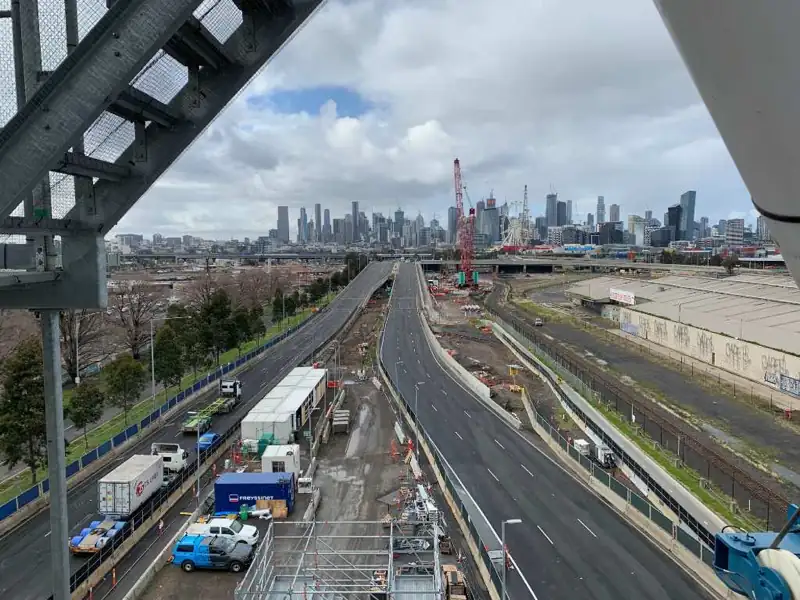
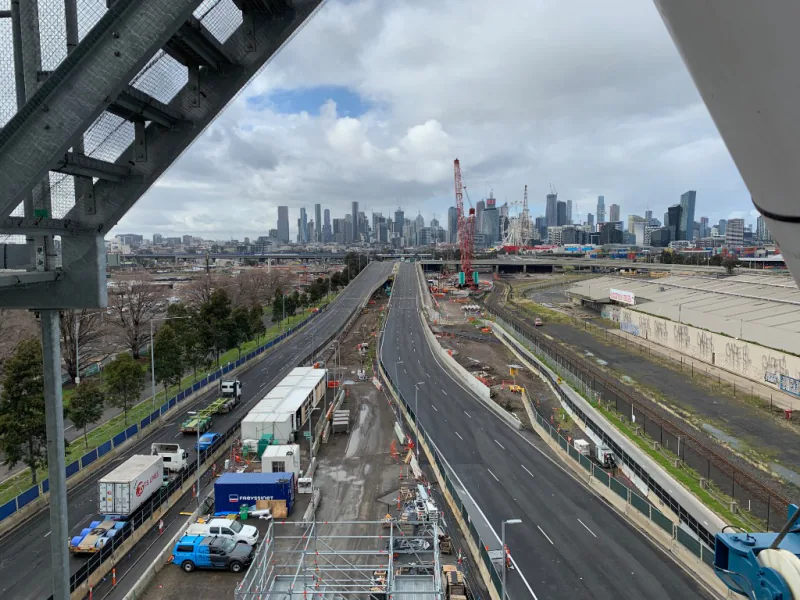
Guides block, auditor register link, two-auditor wording, shorter form and sharper hero
- Homepage Guides section with the three guides as dated cards
- About band and road safety audits page: two accredited auditors on the
  Victorian Road Safety Auditors Register, incl. a Senior, linked to the
  Austroads register
- Homepage enquiry form cut to five fields
- Hero WebPs re-encoded from the uncompressed original
- styles.css v25

diff --git a/index.html b/index.html
@@ -165,7 +165,7 @@
 </script>
     <link rel="preload" as="image" href="fresh-hero-800.webp" type="image/webp" fetchpriority="high" media="(max-width: 800px)">
     <link rel="preload" as="image" href="fresh-hero.webp" type="image/webp" fetchpriority="high" media="(min-width: 801px)">
-    <link rel="stylesheet" href="styles.css?v=24">
+    <link rel="stylesheet" href="styles.css?v=25">
     <link rel="preload" href="/fonts/jost-latin.woff2" as="font" type="font/woff2" crossorigin>
     <link rel="icon" href="favicon.ico" sizes="any">
     <link rel="icon" type="image/png" href="favicon.png">
@@ -208,7 +208,7 @@
             <h1>Road safety audits &amp;<br> traffic engineering <span class="hero-location">Melbourne &amp; Victoria</span></h1>
             <p class="hero-subtitle">For councils, DTP, developers and contractors.</p>
             <ul class="hero-proof" aria-label="Credentials">
-                <li>Senior Road Safety Auditor</li>
+                <li>2 accredited auditors, incl. a Senior Road Safety Auditor</li>
                 <li>TMD Cat 1&ndash;3</li>
                 <li>15+ years in Victoria</li>
             </ul>
@@ -300,6 +300,21 @@
         </div>
     </section>
 
+    <!-- Guides -->
+    <section id="guides" class="section insights-section">
+        <div class="container">
+            <div class="section-header">
+                <h2>Guides</h2>
+                <p>Plain-English guides to what road authorities and councils ask for.</p>
+            </div>
+            <div class="guide-cards insights-grid">
+                <a href="car-parking-reduction-victoria.html" class="guide-card"><span class="guide-card-label">Guide &middot; November 2026</span><span class="guide-card-title">Car parking reductions in Victoria</span><span class="guide-card-desc">What council needs to see under Clause 52.06 &rarr;</span></a>
+                <a href="when-do-you-need-a-road-safety-audit.html" class="guide-card"><span class="guide-card-label">Guide &middot; November 2026</span><span class="guide-card-title">When do you need a road safety audit?</span><span class="guide-card-desc">Requirements, stages and timing in Victoria &rarr;</span></a>
+                <a href="road-safety-audit-cost.html" class="guide-card"><span class="guide-card-label">Guide &middot; November 2026</span><span class="guide-card-title">What does a road safety audit cost?</span><span class="guide-card-desc">What drives the price and what to send &rarr;</span></a>
+            </div>
+        </div>
+    </section>
+
     <!-- Projects Gallery -->
     <section id="projects" class="section">
         <div class="container">
@@ -385,10 +400,11 @@
                     <p>Fresh Engineering has worked on everything from small council jobs to major Tier 1
                         infrastructure projects. We know what gets built and what road authorities will approve,
                         and we keep our advice clear and practical.</p>
+                    <p class="about-register">We have two accredited auditors on the <a href="https://vicdtp-rsa.austroads.gov.au/" target="_blank" rel="noopener noreferrer">Victorian Road Safety Auditors Register</a>, including a Senior Road Safety Auditor who leads our audits. Austroads manages the register for the Department of Transport and Planning.</p>
                 </div>
                 <div class="about-stats" aria-label="Credentials">
                     <div class="about-stat"><span class="about-stat-value">15+</span><span class="about-stat-label">Years experience</span></div>
-                    <div class="about-stat"><span class="about-stat-value">Senior</span><span class="about-stat-label">Accredited Road Safety Auditor</span></div>
+                    <div class="about-stat"><span class="about-stat-value">2</span><span class="about-stat-label">Accredited road safety auditors, incl. a Senior</span></div>
                     <div class="about-stat"><span class="about-stat-value">Cat 1&ndash;3</span><span class="about-stat-label">Traffic Management Designer (TMD)</span></div>
                     <div class="about-stat"><span class="about-stat-value">ASHTAS</span><span class="about-stat-label">Road Safety Barrier Accredited</span></div>
                 </div>
@@ -498,45 +514,29 @@
                         </div>
                         <div class="form-row">
                             <div class="form-group">
-                                <label class="form-label" for="phone">Phone (optional)</label>
-                                <input type="tel" id="phone" name="phone" class="form-input" autocomplete="tel" placeholder="0400 000 000">
-                            </div>
-                            <div class="form-group">
-                                <label class="form-label" for="location">Project location (optional)</label>
-                                <input type="text" id="location" name="location" class="form-input" placeholder="Suburb or council">
-                            </div>
-                        </div>
-                        <div class="form-row">
-                            <div class="form-group">
                                 <label class="form-label" for="service">Service required</label>
                                 <select id="service" name="service" class="form-input" required>
                                     <option value="" disabled selected>Select a service…</option>
-                                    <option>Road Safety Audits</option>
-                                    <option>Traffic Management Plans</option>
-                                    <option>Traffic Impact Assessments</option>
-                                    <option>Compliance Audits</option>
-                                    <option>Technical Advice</option>
-                                    <option>Tenders & Project Delivery</option>
-                                    <option>Car Parking Demand Assessments</option>
-                                    <option>Risk Assessments</option>
+                                    <option>Road safety audits</option>
+                                    <option>Traffic management plans</option>
+                                    <option>Traffic impact assessments</option>
+                                    <option>Car parking demand assessments</option>
+                                    <option>Compliance audits</option>
+                                    <option>Risk assessments</option>
+                                    <option>Technical advice</option>
+                                    <option>Tenders &amp; project delivery</option>
                                     <option>Other</option>
                                 </select>
                             </div>
                             <div class="form-group">
-                                <label class="form-label" for="road_authority">Whose road is it? (optional)</label>
-                                <select id="road_authority" name="road_authority" class="form-input">
-                                    <option value="">Select…</option>
-                                    <option>Council road</option>
-                                    <option>DTP (arterial) road</option>
-                                    <option>Private or internal road</option>
-                                    <option>Not sure</option>
-                                </select>
+                                <label class="form-label" for="phone">Phone (optional)</label>
+                                <input type="tel" id="phone" name="phone" class="form-input" autocomplete="tel" placeholder="0400 000 000">
                             </div>
                         </div>
                         <div class="form-group">
                             <label class="form-label" for="message">Message</label>
                             <textarea id="message" name="message" class="form-textarea" rows="4"
-                                placeholder="How can we help?" required></textarea>
+                                placeholder="What the project involves, where it is and your timeframe" required></textarea>
                         </div>
                         <button type="submit" class="btn-primary btn-block">Send enquiry</button>
                     </form>

diff --git a/road-safety-audits.html b/road-safety-audits.html
@@ -172,7 +172,7 @@
     </script>
 
     <!-- Styles -->
-    <link rel="stylesheet" href="styles.css?v=24">
+    <link rel="stylesheet" href="styles.css?v=25">
     <link rel="preload" href="/fonts/jost-latin.woff2" as="font" type="font/woff2" crossorigin>
     <link rel="icon" href="favicon.ico" sizes="any">
     <link rel="icon" type="image/png" href="favicon.png">
@@ -230,7 +230,7 @@
                 <div class="service-intro about-text">
                     <h2>What is a road safety audit?</h2>
                     <p>A road safety audit (RSA) is an independent review of how a road, intersection or roadworks site could lead to someone being killed or seriously injured. It isn't a compliance check against the drawings. It finds where crash risk remains, even on a design that meets every standard.</p>
-                    <p>Our audits are led by an accredited Senior Road Safety Auditor, for councils, the Department of Transport and Planning (DTP), developers and contractors across Melbourne and regional Victoria. With TMD Cat 1, 2 &amp; 3 credentials and 15+ years on projects like North East Link, the West Gate Tunnel and level crossing removals, we know how a road actually gets built.</p>
+                    <p>We have two accredited auditors on the <a href="https://vicdtp-rsa.austroads.gov.au/" target="_blank" rel="noopener noreferrer">Victorian Road Safety Auditors Register</a>, including a Senior Road Safety Auditor who leads every audit. We work for councils, the Department of Transport and Planning (DTP), developers and contractors across Melbourne and regional Victoria. With TMD Cat 1, 2 &amp; 3 credentials and 15+ years on projects like North East Link, the West Gate Tunnel and level crossing removals, we know how a road actually gets built.</p>
                 </div>
                 <aside class="service-aside" aria-label="Quote and credentials">
                     <div class="service-aside-inner">
@@ -288,7 +288,7 @@
                 <p>The audit team is independent of the design team, as Austroads and DTP require. That keeps the findings objective and credible when an authority reviews them.</p>
                 <ul class="bullets">
                     <li>Audit team independent of the designers</li>
-                    <li>Led by an accredited Senior Road Safety Auditor</li>
+                    <li>Two accredited auditors on the Victorian register, led by a Senior Road Safety Auditor</li>
                     <li>Assessed against Austroads Part 6 and DTP requirements</li>
                 </ul>
             </div>

diff --git a/privacy-policy.html b/privacy-policy.html
@@ -28,7 +28,7 @@
     <meta name="twitter:description" content="How Fresh Engineering Pty Ltd collects, uses and protects your personal information in accordance with the Australian Privacy Principles.">
     <meta name="twitter:image" content="https://www.freshengineering.com.au/og-image.png">
 
-    <link rel="stylesheet" href="styles.css?v=24">
+    <link rel="stylesheet" href="styles.css?v=25">
     <link rel="preload" href="/fonts/jost-latin.woff2" as="font" type="font/woff2" crossorigin>
     <link rel="canonical" href="https://www.freshengineering.com.au/privacy-policy.html">
     <link rel="icon" href="favicon.ico" sizes="any">

diff --git a/terms-of-use.html b/terms-of-use.html
@@ -29,7 +29,7 @@
     <meta name="twitter:description" content="Terms governing your use of the Fresh Engineering Pty Ltd website, including intellectual property, liability and governing law.">
     <meta name="twitter:image" content="https://www.freshengineering.com.au/og-image.png">
 
-    <link rel="stylesheet" href="styles.css?v=24">
+    <link rel="stylesheet" href="styles.css?v=25">
     <link rel="preload" href="/fonts/jost-latin.woff2" as="font" type="font/woff2" crossorigin>
     <link rel="canonical" href="https://www.freshengineering.com.au/terms-of-use.html">
     <link rel="icon" href="favicon.ico" sizes="any">

diff --git a/404.html b/404.html
@@ -27,7 +27,7 @@
     <meta name="twitter:description" content="The page you were looking for could not be found. Return to Fresh Engineering, traffic engineering and road safety audit specialists in Melbourne.">
     <meta name="twitter:image" content="https://www.freshengineering.com.au/og-image.png">
 
-    <link rel="stylesheet" href="/styles.css?v=24">
+    <link rel="stylesheet" href="/styles.css?v=25">
     <link rel="preload" href="/fonts/jost-latin.woff2" as="font" type="font/woff2" crossorigin>
     <link rel="icon" href="/favicon.ico" sizes="any">
     <link rel="icon" type="image/png" href="/favicon.png">

diff --git a/styles.css b/styles.css
@@ -1900,3 +1900,29 @@ details.faq-item p {
     text-decoration: underline;
     text-underline-offset: 3px;
 }
+
+
+/* Homepage: guides block and register line (Nov 2026) */
+.insights-section {
+    background: var(--bg-surface);
+}
+
+.insights-grid {
+    margin-top: 0;
+}
+
+.insights-section .guide-card {
+    background: var(--bg-void);
+}
+
+.about-register {
+    margin-top: 1.25rem;
+    font-size: 0.98rem;
+    color: var(--text-secondary);
+}
+
+.about-register a {
+    color: var(--accent-glow);
+    text-decoration: underline;
+    text-underline-offset: 3px;
+}

diff --git a/car-parking-assessments.html b/car-parking-assessments.html
@@ -140,7 +140,7 @@
     </script>
 
     <!-- Styles -->
-    <link rel="stylesheet" href="styles.css?v=24">
+    <link rel="stylesheet" href="styles.css?v=25">
     <link rel="preload" href="/fonts/jost-latin.woff2" as="font" type="font/woff2" crossorigin>
     <link rel="icon" href="favicon.ico" sizes="any">
     <link rel="icon" type="image/png" href="favicon.png">

diff --git a/car-parking-reduction-victoria.html b/car-parking-reduction-victoria.html
@@ -132,7 +132,7 @@
     </script>
 
     <!-- Styles -->
-    <link rel="stylesheet" href="styles.css?v=24">
+    <link rel="stylesheet" href="styles.css?v=25">
     <link rel="preload" href="/fonts/jost-latin.woff2" as="font" type="font/woff2" crossorigin>
     <link rel="icon" href="favicon.ico" sizes="any">
     <link rel="icon" type="image/png" href="favicon.png">

diff --git a/compliance-audits.html b/compliance-audits.html
@@ -132,7 +132,7 @@
     </script>
 
     <!-- Styles -->
-    <link rel="stylesheet" href="styles.css?v=24">
+    <link rel="stylesheet" href="styles.css?v=25">
     <link rel="preload" href="/fonts/jost-latin.woff2" as="font" type="font/woff2" crossorigin>
     <link rel="icon" href="favicon.ico" sizes="any">
     <link rel="icon" type="image/png" href="favicon.png">

diff --git a/risk-assessments.html b/risk-assessments.html
@@ -132,7 +132,7 @@
     </script>
 
     <!-- Styles -->
-    <link rel="stylesheet" href="styles.css?v=24">
+    <link rel="stylesheet" href="styles.css?v=25">
     <link rel="preload" href="/fonts/jost-latin.woff2" as="font" type="font/woff2" crossorigin>
     <link rel="icon" href="favicon.ico" sizes="any">
     <link rel="icon" type="image/png" href="favicon.png">

diff --git a/road-safety-audit-cost.html b/road-safety-audit-cost.html
@@ -126,7 +126,7 @@
     </script>
 
     <!-- Styles -->
-    <link rel="stylesheet" href="styles.css?v=24">
+    <link rel="stylesheet" href="styles.css?v=25">
     <link rel="preload" href="/fonts/jost-latin.woff2" as="font" type="font/woff2" crossorigin>
     <link rel="icon" href="favicon.ico" sizes="any">
     <link rel="icon" type="image/png" href="favicon.png">

diff --git a/technical-advice.html b/technical-advice.html
@@ -132,7 +132,7 @@
     </script>
 
     <!-- Styles -->
-    <link rel="stylesheet" href="styles.css?v=24">
+    <link rel="stylesheet" href="styles.css?v=25">
     <link rel="preload" href="/fonts/jost-latin.woff2" as="font" type="font/woff2" crossorigin>
     <link rel="icon" href="favicon.ico" sizes="any">
     <link rel="icon" type="image/png" href="favicon.png">
